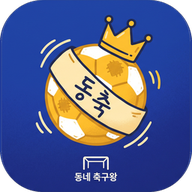
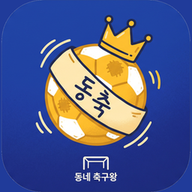
Add files via upload

diff --git a/privacy.html b/privacy.html
@@ -1,0 +1,59 @@
+<!DOCTYPE html>
+<html lang="ko">
+<head>
+<meta charset="UTF-8">
+<meta name="viewport" content="width=device-width, initial-scale=1.0">
+<title>개인정보처리방침 — 동네 축구왕</title>
+<style>
+  body{font-family:'Pretendard',-apple-system,sans-serif;background:#111015;color:#e8e8ec;margin:0;padding:24px;line-height:1.7;}
+  main{max-width:720px;margin:0 auto;}
+  h1{font-size:22px;} h2{font-size:17px;margin-top:28px;color:#8ef0b0;}
+  table{border-collapse:collapse;width:100%;font-size:14px;}
+  th,td{border:1px solid #333;padding:8px;text-align:left;}
+  a{color:#8ef0b0;}
+  .muted{color:#9a9aa4;font-size:13px;}
+</style>
+</head>
+<body>
+<main>
+<h1>개인정보처리방침</h1>
+<p class="muted">시행일: 2026-08-01 · 서비스명: 동네 축구왕(KickTown)</p>
+
+<h2>1. 수집하는 개인정보 항목</h2>
+<table>
+<tr><th>구분</th><th>항목</th><th>수집 시점</th></tr>
+<tr><td>필수</td><td>아이디, 이름(닉네임), 비밀번호(SHA-256 해시로만 저장)</td><td>자체 회원가입 시</td></tr>
+<tr><td>필수</td><td>카카오 계정 식별자(회원번호), 닉네임</td><td>카카오 로그인 시</td></tr>
+<tr><td>선택</td><td>등번호, 포지션, 유니폼 사이즈, 전화번호(입력한 경우)</td><td>팀원 등록 시</td></tr>
+<tr><td>자동</td><td>출석·경기 기록, 투표 내역, 서비스 이용 기록</td><td>서비스 이용 중</td></tr>
+</table>
+
+<h2>2. 수집 및 이용 목적</h2>
+<p>회원 식별과 로그인, 팀 구성원 관리, 경기 일정·출석·기록·순위 제공, 투표(MOM) 운영 등 서비스 핵심 기능 제공을 위해서만 이용합니다.</p>
+
+<h2>3. 보관 및 파기</h2>
+<p>개인정보는 회원 탈퇴(계정 삭제 요청) 시 지체 없이 파기합니다. 다만 팀 운영 기록의 통계적 일관성을 위해 경기 기록에는 이름만 남고 계정 연결 정보는 삭제됩니다. 관계 법령에 따라 보존이 필요한 경우 해당 기간 동안 보관 후 파기합니다.</p>
+
+<h2>4. 제3자 제공 및 처리 위탁</h2>
+<p>개인정보를 제3자에게 판매하거나 제공하지 않습니다. 서비스 운영을 위해 다음 서비스를 이용하며, 데이터는 해당 인프라에 저장됩니다.</p>
+<table>
+<tr><th>수탁자</th><th>목적</th></tr>
+<tr><td>Google Firebase (Firestore, Authentication)</td><td>데이터 저장 및 인증</td></tr>
+<tr><td>Kakao</td><td>카카오 계정 로그인</td></tr>
+<tr><td>GitHub Pages</td><td>웹 호스팅</td></tr>
+</table>
+
+<h2>5. 이용자의 권리 및 계정 삭제</h2>
+<p>이용자는 언제든지 자신의 개인정보 열람·정정·삭제를 요청할 수 있습니다. 계정 삭제는 <a href="delete-account.html">계정 삭제 안내 페이지</a>를 통해 요청할 수 있으며, 요청 접수 후 7일 이내 처리됩니다.</p>
+
+<h2>6. 개인정보 보호를 위한 조치</h2>
+<p>비밀번호는 원문을 저장하지 않고 SHA-256 해시로만 저장합니다. 데이터베이스 접근은 인증된 요청에 한해 허용되도록 보안 규칙을 적용하고 있습니다.</p>
+
+<h2>7. 개인정보 보호책임자 및 문의</h2>
+<p>이메일: <strong>(운영자 이메일 주소 입력)</strong></p>
+
+<h2>8. 방침 변경</h2>
+<p>본 방침이 변경되는 경우 앱 내 공지 또는 본 페이지를 통해 고지합니다.</p>
+</main>
+</body>
+</html>

diff --git a/delete-account.html b/delete-account.html
@@ -1,0 +1,39 @@
+<!DOCTYPE html>
+<html lang="ko">
+<head>
+<meta charset="UTF-8">
+<meta name="viewport" content="width=device-width, initial-scale=1.0">
+<title>계정 삭제 안내 — 동네 축구왕</title>
+<style>
+  body{font-family:'Pretendard',-apple-system,sans-serif;background:#111015;color:#e8e8ec;margin:0;padding:24px;line-height:1.7;}
+  main{max-width:720px;margin:0 auto;}
+  h1{font-size:22px;} h2{font-size:17px;margin-top:28px;color:#8ef0b0;}
+  a{color:#8ef0b0;}
+  .box{background:#1b1a21;border:1px solid #333;border-radius:12px;padding:16px;margin:16px 0;}
+  ol li{margin-bottom:6px;}
+</style>
+</head>
+<body>
+<main>
+<h1>계정 삭제 안내</h1>
+<p>동네 축구왕(KickTown) 계정과 관련 데이터의 삭제를 요청하는 방법을 안내합니다.</p>
+
+<h2>삭제 요청 방법</h2>
+<div class="box">
+<ol>
+  <li>아래 이메일 주소로 <strong>가입한 아이디(또는 카카오 로그인 여부)</strong>와 <strong>팀 이름</strong>을 적어 보내주세요.</li>
+  <li>본인 확인 후 <strong>7일 이내</strong>에 계정과 개인정보를 삭제합니다.</li>
+</ol>
+<p>문의: <strong>(운영자 이메일 주소 입력)</strong></p>
+</div>
+
+<h2>삭제되는 데이터</h2>
+<p>계정 정보(아이디, 이름, 비밀번호 해시, 카카오 연결 정보), 팀원 프로필(등번호, 포지션, 유니폼 사이즈, 전화번호)이 삭제됩니다.</p>
+
+<h2>보존되는 데이터</h2>
+<p>팀의 경기 결과·점수 등 통계 기록은 팀 운영 이력의 일관성을 위해 개인 식별 정보와 분리된 형태(이름 표기만 남음)로 보존될 수 있습니다. 이름 표기까지의 삭제를 원하시면 요청 시 함께 알려주세요.</p>
+
+<p><a href="privacy.html">개인정보처리방침 보기</a></p>
+</main>
+</body>
+</html>